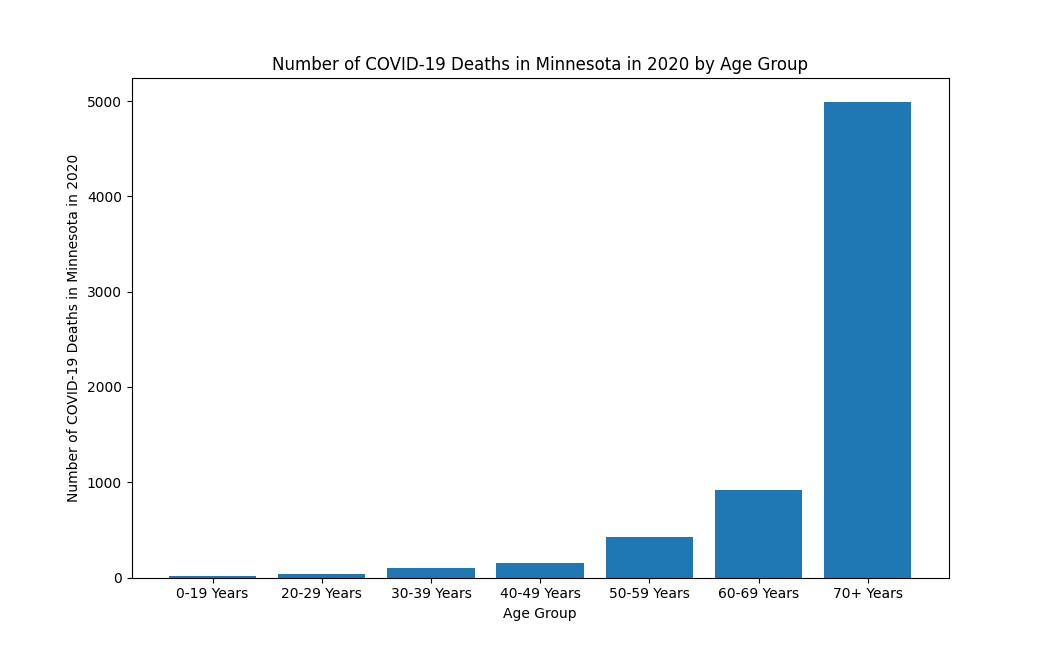
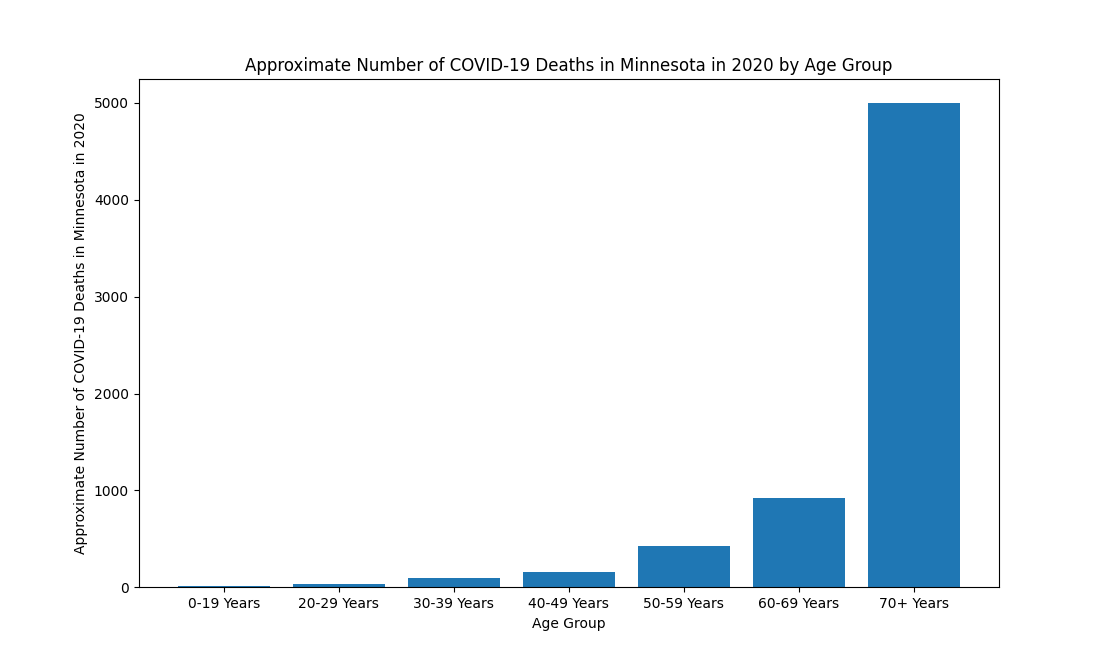
Add files via upload

diff --git a/project2.py b/project2.py
@@ -195,9 +195,9 @@ counts=[youth,twenties,thirties,forties,fifties,sixties,seventy_plus]
 
 fig, ax = plt.subplots()
 ax.bar(terms, counts)
-plt.title('Number of COVID-19 Deaths in Minnesota in 2020 by Age Group')
+plt.title('Approximate Number of COVID-19 Deaths in Minnesota in 2020 by Age Group')
 plt.xlabel('Age Group')
-plt.ylabel('Number of COVID-19 Deaths in Minnesota in 2020')
+plt.ylabel('Approximate Number of COVID-19 Deaths in Minnesota in 2020')
 plt.show()
     
 
